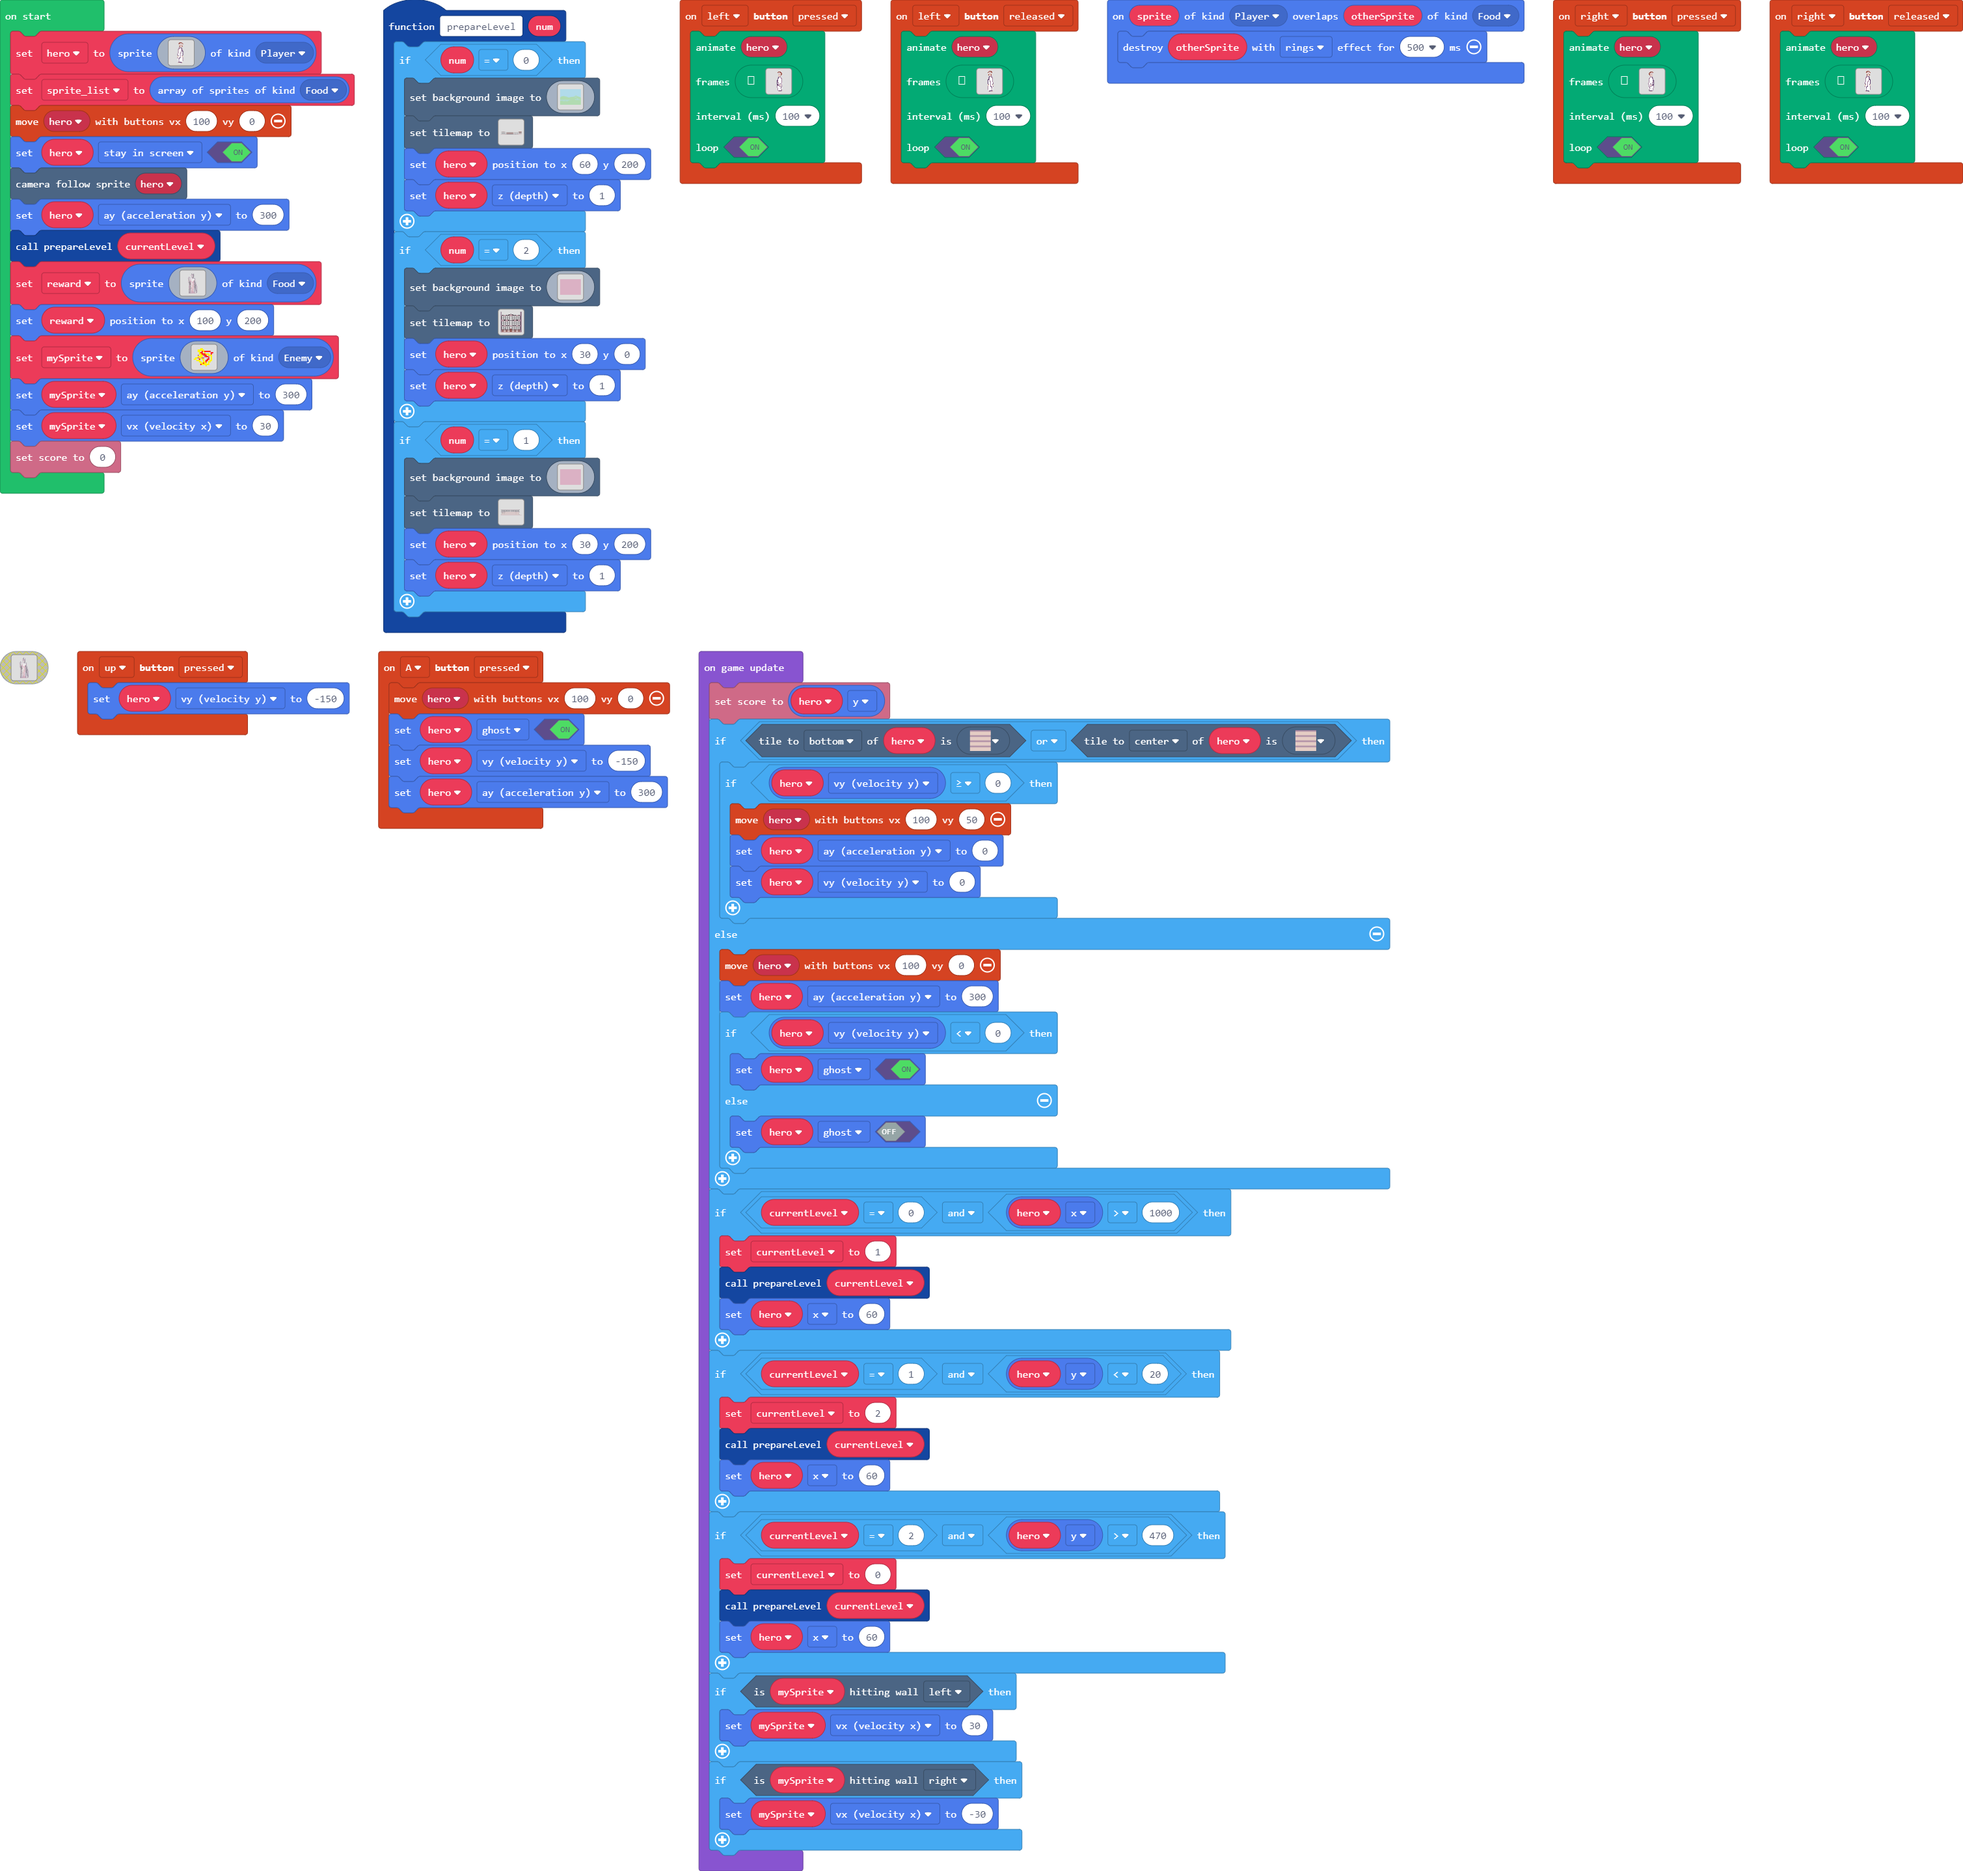
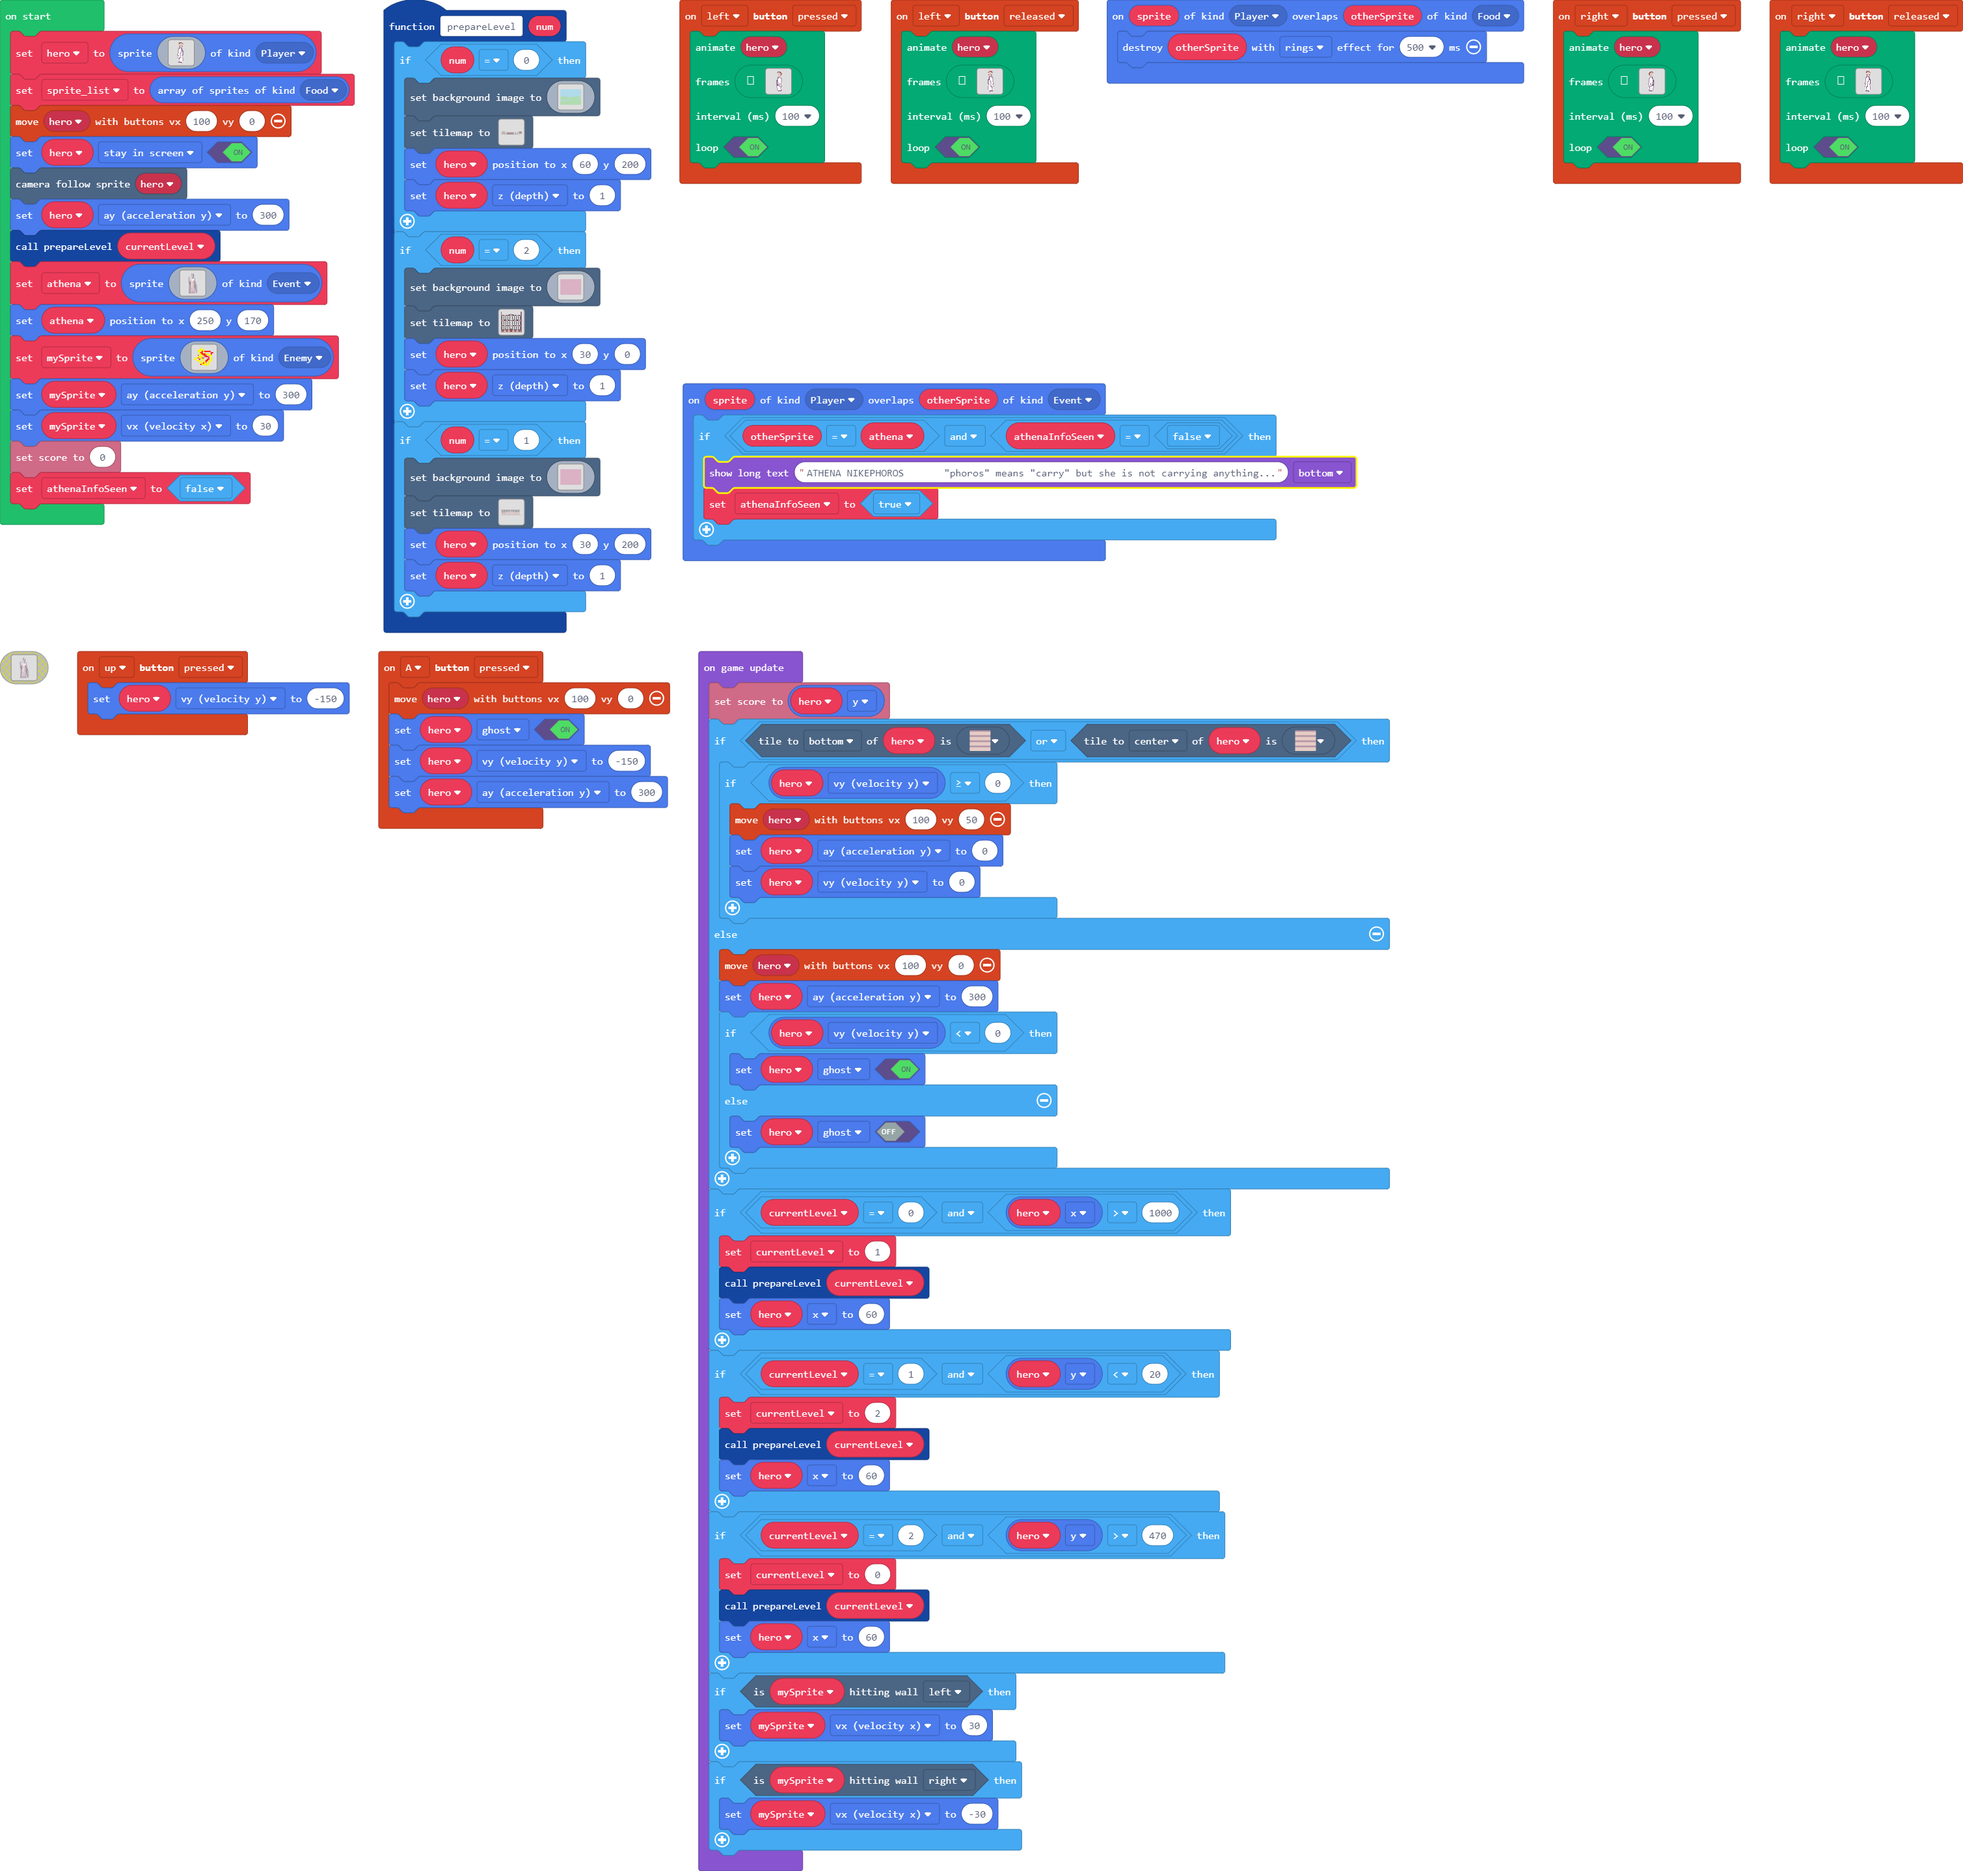
dialog

Changed region(s): [[0.3427, 0.1857, 0.6854, 0.3096], [0.0, 0.2477, 0.1246, 0.2786], [0.1558, 0.1238, 0.1869, 0.1548]]

diff --git a/main.ts b/main.ts
@@ -1,3 +1,6 @@
+namespace SpriteKind {
+    export const Event = SpriteKind.create()
+}
 namespace myTiles {
     //% blockIdentity=images._tile
     export const tile0 = img`
@@ -1368,6 +1371,12 @@ b b b b b b b b b b b . . . . .
 c c c c c c c c c c c . . . . . 
 `
 }
+sprites.onOverlap(SpriteKind.Player, SpriteKind.Event, function (sprite, otherSprite) {
+    if (otherSprite == athena && athenaInfoSeen == false) {
+        game.showLongText("ATHENA NIKEPHOROS       \"phoros\" means \"carry\" but she is not carrying anything...", DialogLayout.Bottom)
+        athenaInfoSeen = true
+    }
+})
 controller.left.onEvent(ControllerButtonEvent.Pressed, function () {
     animation.runImageAnimation(
     hero,
@@ -2075,6 +2084,8 @@ function prepareLevel (num: number) {
 controller.up.onEvent(ControllerButtonEvent.Pressed, function () {
     hero.vy = -150
 })
+let athenaInfoSeen = false
+let athena: Sprite = null
 let currentLevel = 0
 let hero: Sprite = null
 hero = sprites.create(img`
@@ -2117,7 +2128,7 @@ hero.setFlag(SpriteFlag.StayInScreen, true)
 scene.cameraFollowSprite(hero)
 hero.ay = 300
 prepareLevel(currentLevel)
-let reward = sprites.create(img`
+athena = sprites.create(img`
 . . . . . . . . . . . . . . . . . . . . . . . . . . . . . . . . 
 . . . . . . . . . . . . 1 . . . . . . 1 . . . . . . . . . . . . 
 . . . . . . . . . . . . 1 c . . . . . c . . . . . . . . . . . . 
@@ -2182,8 +2193,8 @@ let reward = sprites.create(img`
 . . . . f b b c . c b b 1 b b 3 3 3 3 1 c c . . . . c c c . . . 
 . . . . f b b c 1 c c b 1 b b b b b b 1 c c . . . . . c . . . . 
 . . . . c b b 3 3 3 3 b 3 3 3 3 b b b 3 3 3 3 3 3 3 . . . . . . 
-`, SpriteKind.Food)
-reward.setPosition(100, 200)
+`, SpriteKind.Event)
+athena.setPosition(250, 170)
 let mySprite = sprites.create(img`
 . . . . . . . . . . . . . . . . 
 . . . . . 5 5 . . . . . . . . . 
@@ -2205,6 +2216,7 @@ let mySprite = sprites.create(img`
 mySprite.ay = 300
 mySprite.vx = 30
 info.setScore(0)
+athenaInfoSeen = false
 game.onUpdate(function () {
     info.setScore(hero.y)
     if (hero.tileKindAt(TileDirection.Bottom, myTiles.tile6) || hero.tileKindAt(TileDirection.Center, myTiles.tile6)) {
